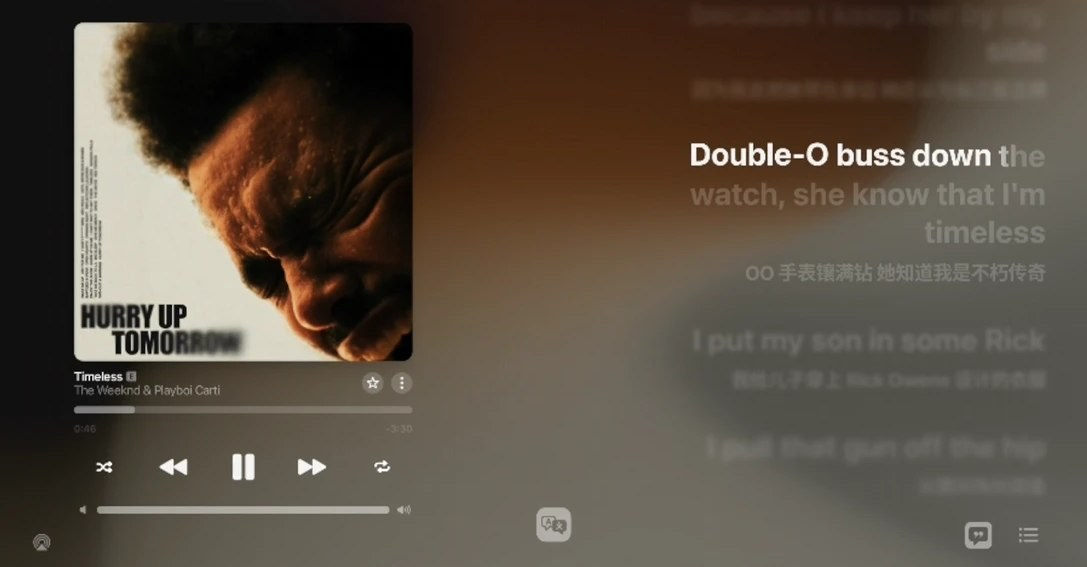
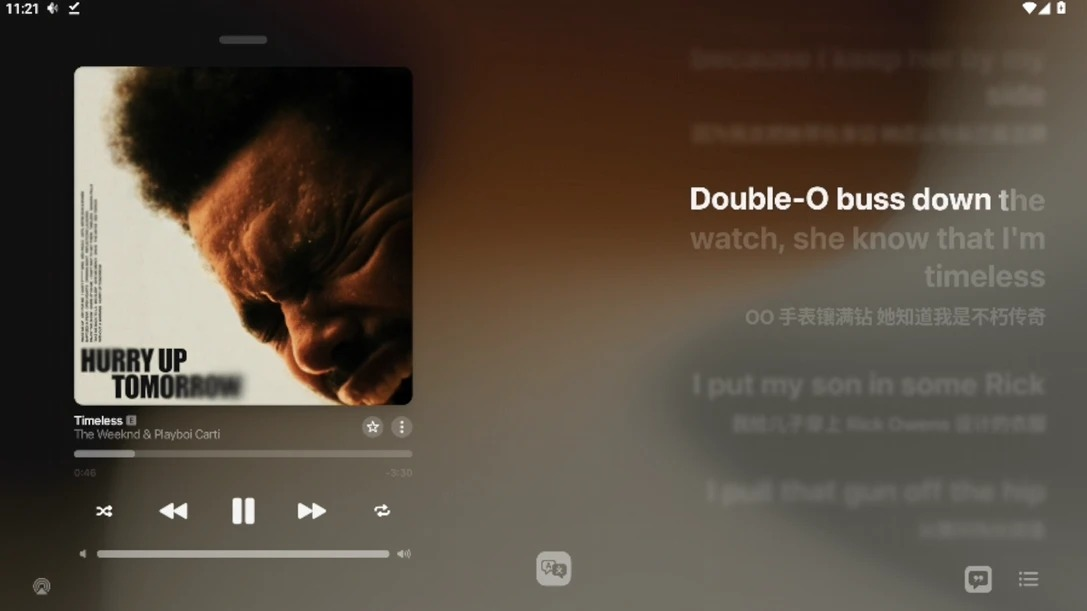
Restore uncropped screenshots; metadata already stripped

diff --git a/docs/images/README.md b/docs/images/README.md
@@ -2,7 +2,7 @@
 
 | 文件 | 内容 |
 | --- | --- |
-| `landscape.jpg` | 歌词页流体背景（横屏），顶部状态栏已裁掉 |
-| `portrait.jpg` | 歌词页流体背景（竖屏），顶部状态栏与歌曲信息卡已裁掉 |
+| `landscape.jpg` | 歌词页流体背景（横屏原图，1087×611） |
+| `portrait.jpg` | 歌词页流体背景（竖屏原图，900×2000） |
 
-更新截图时请一并裁掉状态栏、时间、电量、通知图标与歌曲名，避免泄露个人信息或引入无关内容。
+两张图都经过重编码，已去除全部 EXIF（拍摄时间、设备、GPS、缩略图），文件名不含日期或设备信息。画面内容保持原样，未做裁切。
